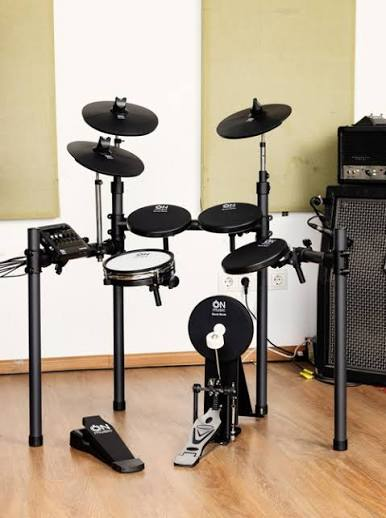
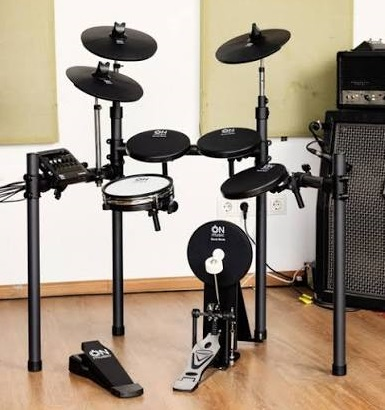
05.11_01

diff --git a/drums/templates/home.html b/drums/templates/home.html
@@ -26,6 +26,7 @@
                 <img src="{% static 'img/on_music.jpg' %}" alt="предмет сбора">
                 <h2>Состояние счета</h2>
                 <img src="{% static 'img/moby.jpg' %}" alt="состояние счета">
+                <img src="{{ statement.image.url }}" alt="">
             </section>
             <section class="content-block">
                 <h2>Последние пополнения</h2>

diff --git a/drums/views.py b/drums/views.py
@@ -5,7 +5,10 @@ from .models import Participant, Payment, Statement
 
 
 def get_home_page(request):
-    context = {}
+    statement = Statement.objects.order_by('-pk').first()
+    print(statement)
+    print(type(statement))
+    context = {'statement': statement}
     return render(request, 'home.html', context)
 
 
